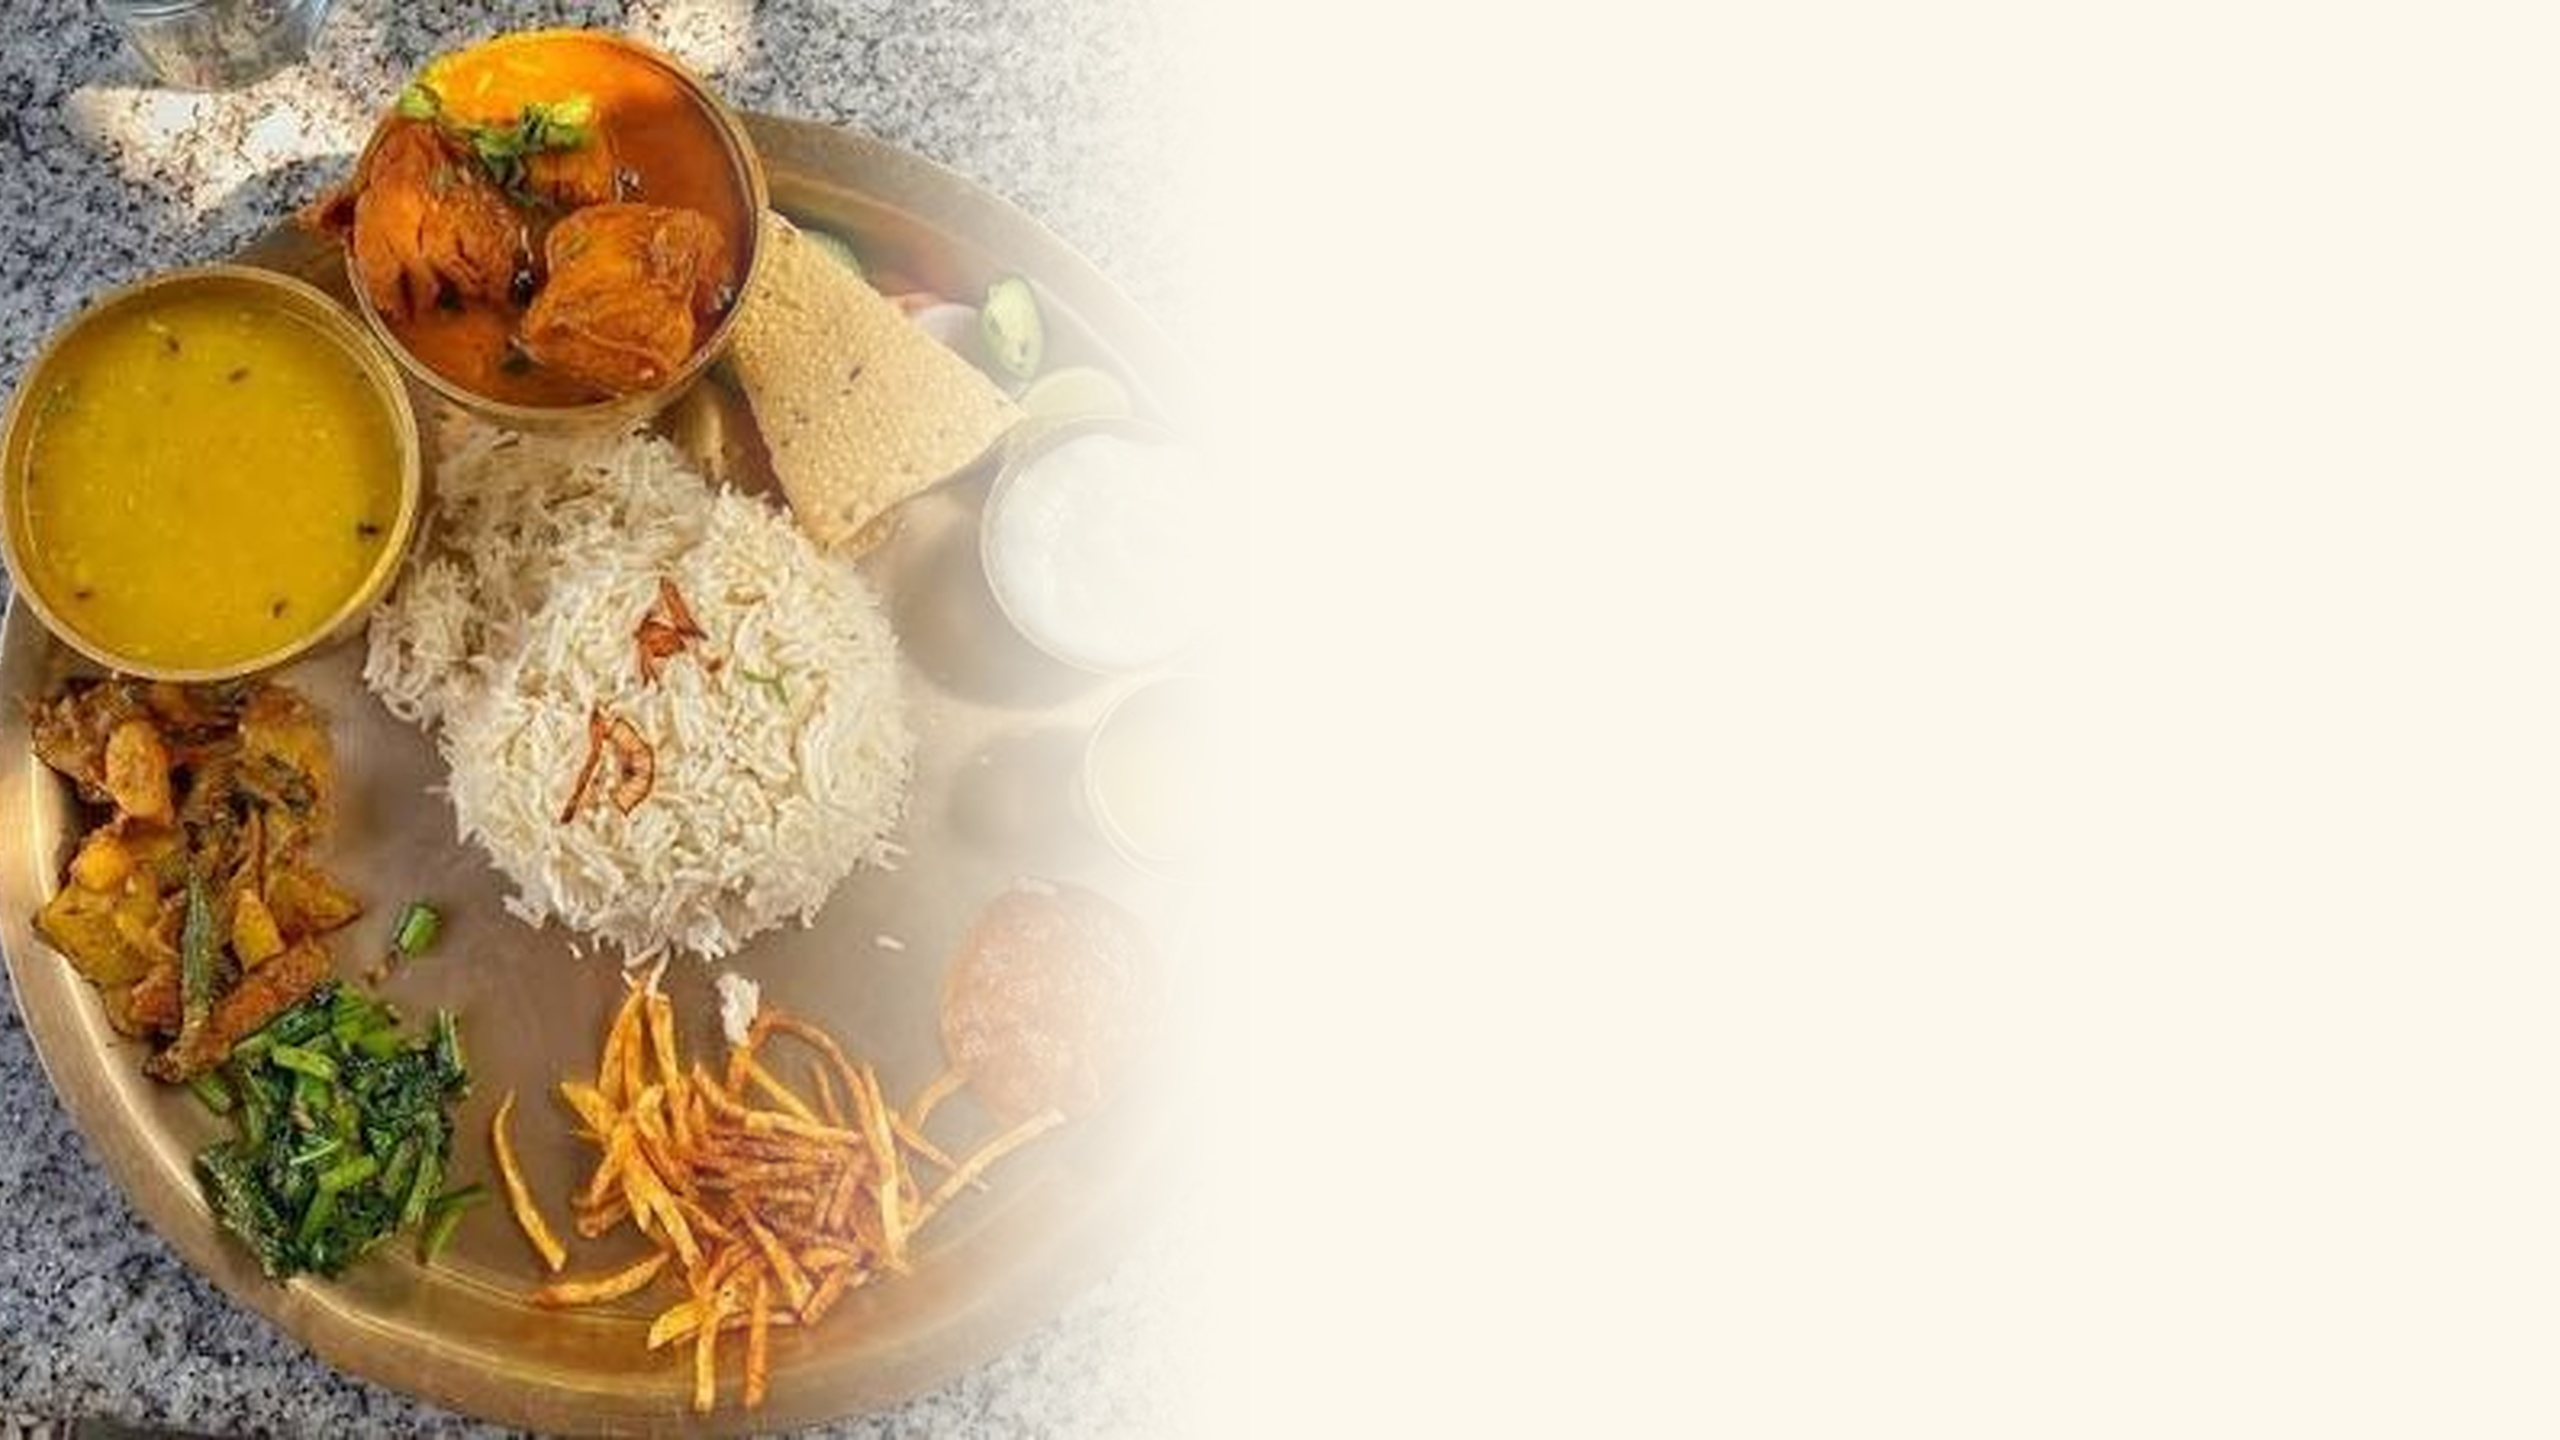
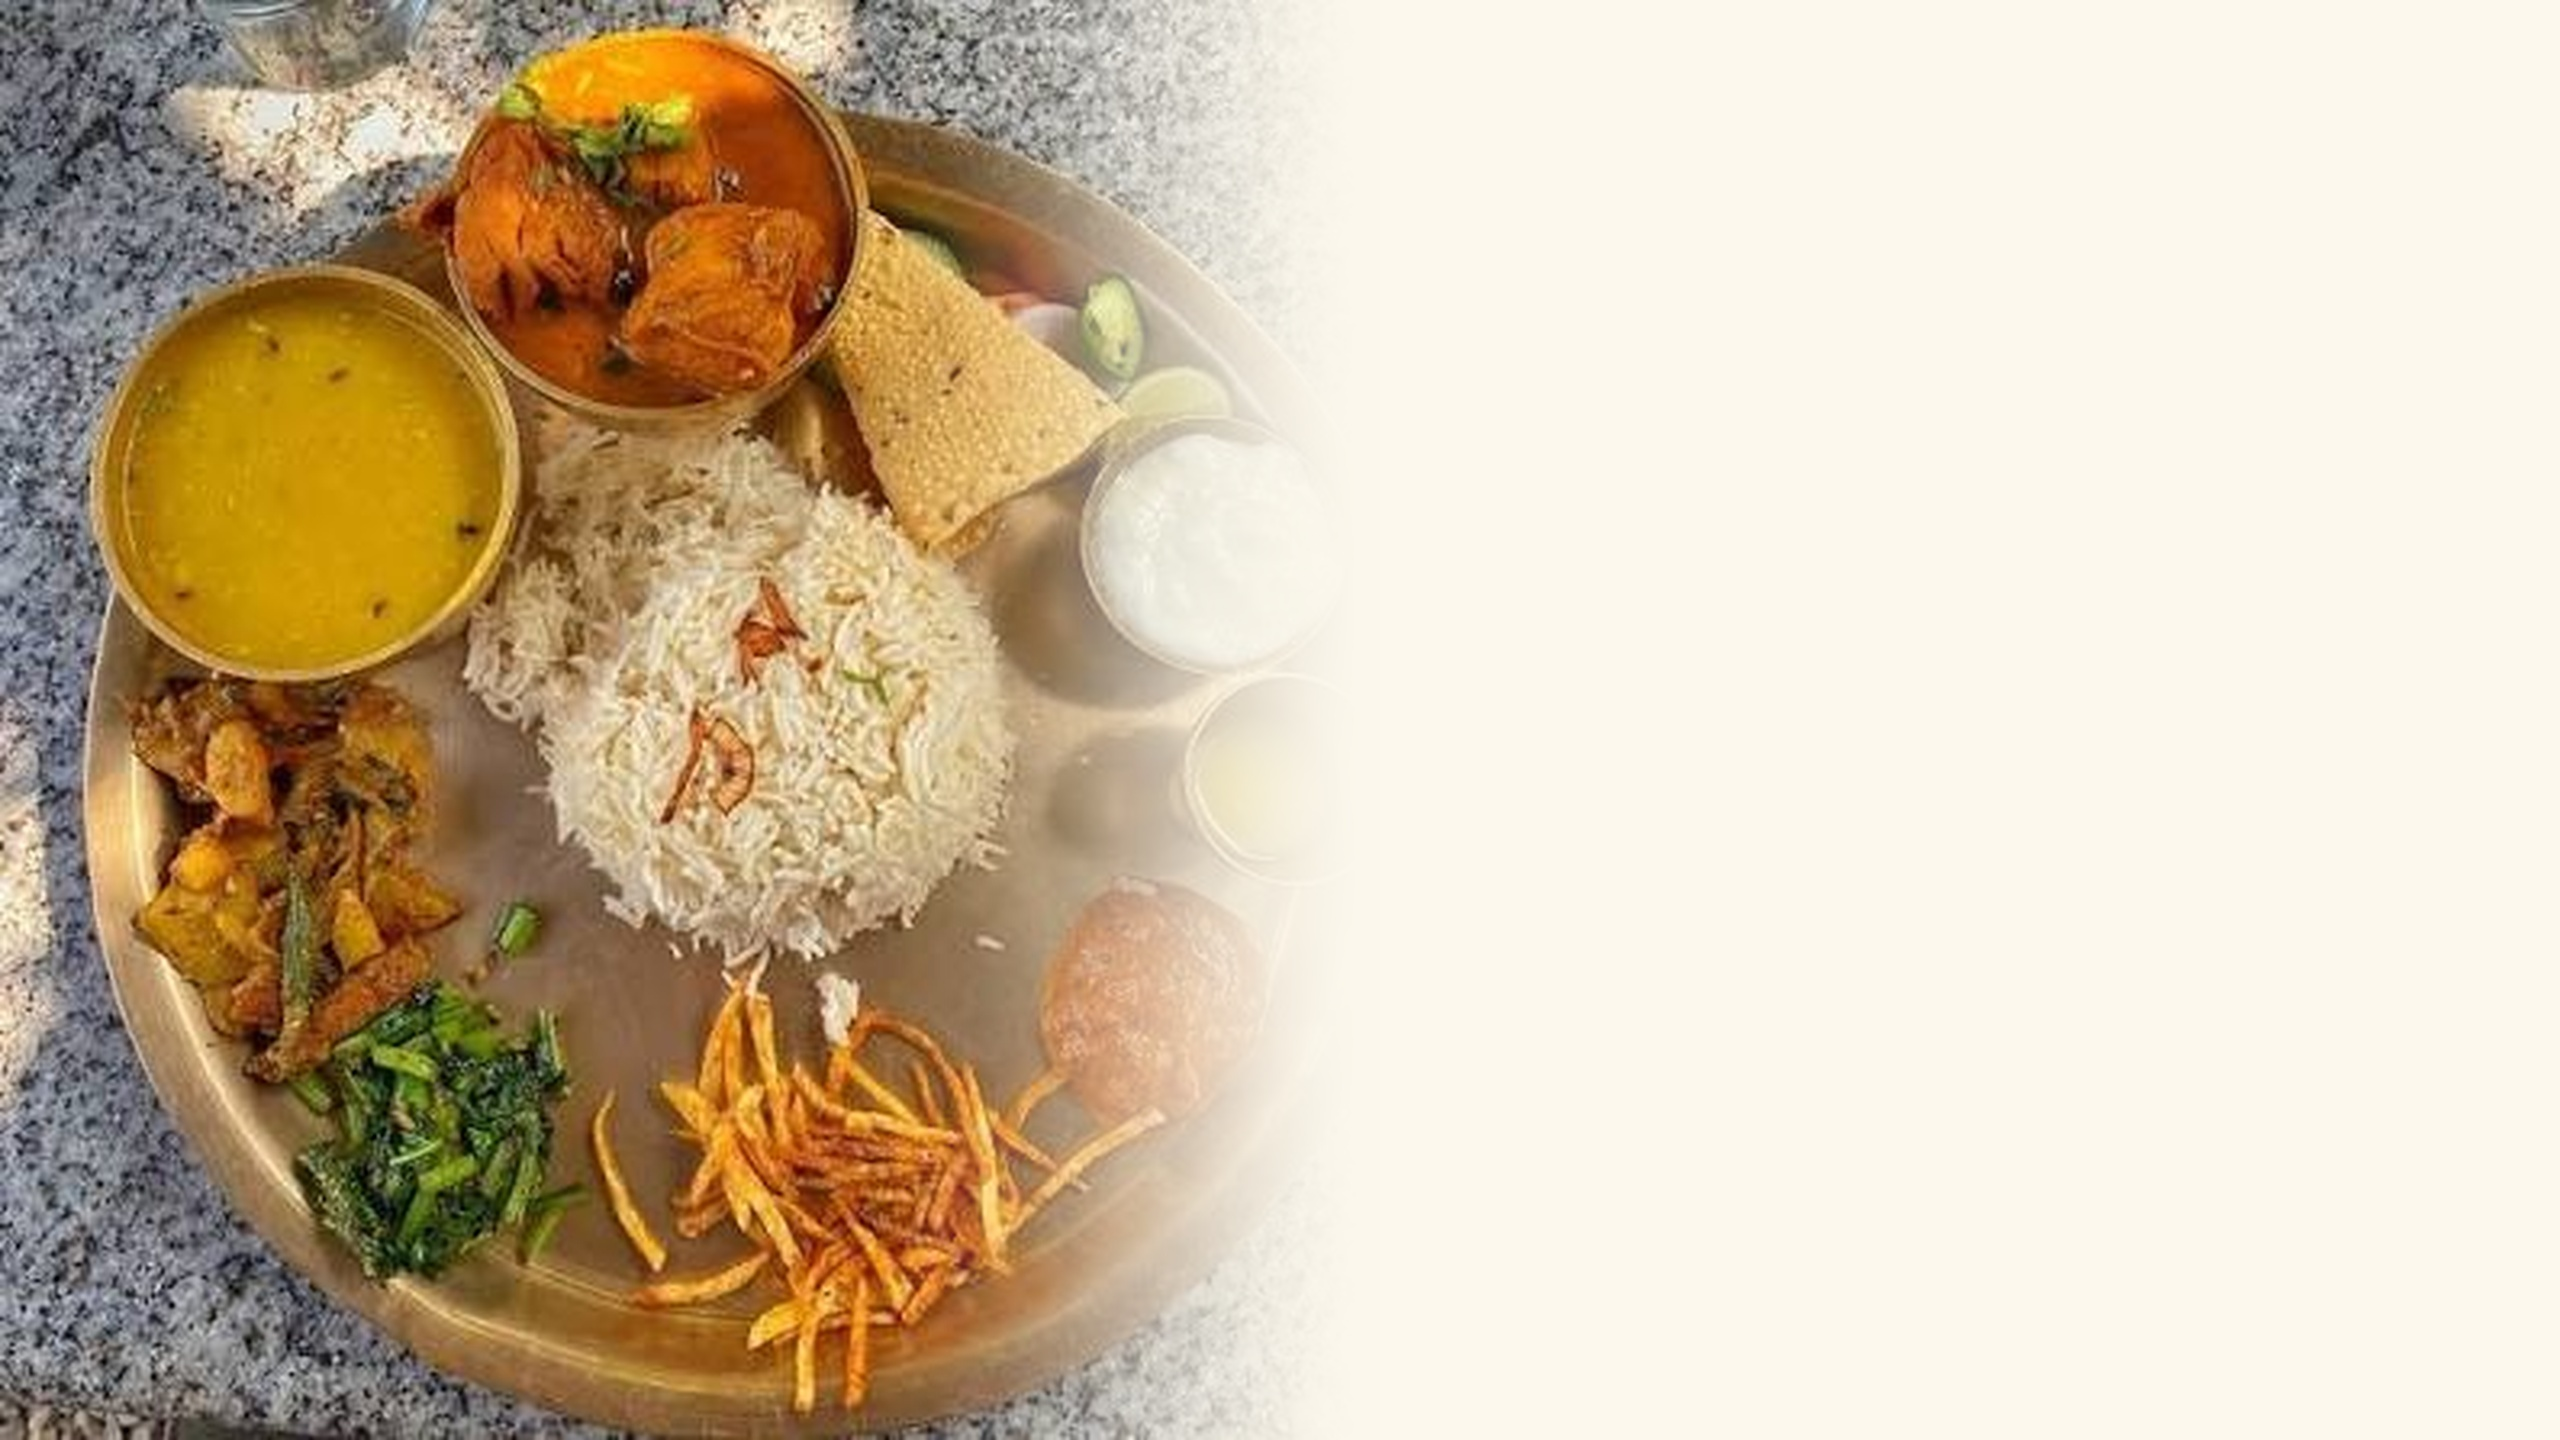
Expand Thakali set visibility across the left section to fill the blank area seamlessly

diff --git a/templates/public/home.html b/templates/public/home.html
@@ -10,23 +10,23 @@
   <div class="absolute inset-0 z-0">
     <img src="/static/images/hero_editorial_banner.jpg" alt="Authentic Nepali Thakali Khana Set Portrait" class="w-full h-full object-cover object-left">
     
-    <!-- Seamless gradient overlay: perfectly clear on left to showcase the brass thali, gentle warmth merging across center, clean champagne on right -->
-    <div class="absolute inset-0 bg-gradient-to-r from-transparent via-creamBg/10 via-35% to-creamBg/90"></div>
+    <!-- Ultra-subtle overlay: 100% transparent on left to let the brass thali stay fully visible and vibrant, subtle warm fade on right -->
+    <div class="absolute inset-0 bg-gradient-to-r from-transparent via-transparent via-40% to-creamBg/80 lg:to-creamBg/85 pointer-events-none"></div>
   </div>
 
   <!-- Hero Content Grid: Balanced Across the Frame to eliminate any void between the dish and typography -->
   <div class="relative z-10 max-w-7xl mx-auto px-4 sm:px-6 lg:px-8 py-16 lg:py-24 w-full">
-    <div class="grid grid-cols-1 lg:grid-cols-12 gap-8 items-center">
+    <div class="grid grid-cols-1 lg:grid-cols-12 gap-6 lg:gap-8 items-center">
       
-      <!-- Left spacer/viewport allowing the authentic brass Thakali set to breathe cleanly -->
-      <div class="hidden lg:block lg:col-span-5 pointer-events-none"></div>
+      <!-- Left spacer/viewport matching the authentic Thakali plate boundary -->
+      <div class="hidden lg:block lg:col-span-5 xl:col-span-5 pointer-events-none"></div>
 
-      <!-- Hero Typography & Actions: Filling the center-to-right area seamlessly -->
-      <div class="w-full lg:col-span-7 space-y-6 text-left">
+      <!-- Hero Typography & Actions: Cleanly positioned where the image smoothly dissolves -->
+      <div class="w-full lg:col-span-7 xl:col-span-7 space-y-6 text-left">
         
         <!-- Top Pill Badge -->
         <div>
-          <div class="inline-flex items-center gap-2.5 px-5 py-2 rounded-full bg-white/90 border border-warmSand/70 text-xs sm:text-sm font-semibold tracking-wide text-terracotta shadow-sm backdrop-blur-md">
+          <div class="inline-flex items-center gap-2.5 px-5 py-2 rounded-full bg-white/95 border border-warmSand/70 text-xs sm:text-sm font-semibold tracking-wide text-terracotta shadow-sm backdrop-blur-md">
             <span class="w-2 h-2 rounded-full bg-terracotta/70"></span>
             <span>🏔 AUTHENTIC MUSTANG THAKALI &amp; HIMALAYAN DINING</span>
           </div>
@@ -38,7 +38,7 @@
             WELCOME TO <br>
             <span class="text-terracotta">HOTEL RHINO</span>
           </h1>
-          <p class="text-base sm:text-lg lg:text-xl text-darkEspresso/80 font-normal leading-relaxed max-w-2xl">
+          <p class="text-base sm:text-lg lg:text-xl text-darkEspresso/85 font-normal leading-relaxed max-w-2xl">
             More than a meal, a taste of Himalayan tradition. Authentic brass thali sets, Mustang Jimbu dal, and heartfelt mountain hospitality in Dhangadhi.
           </p>
         </div>
@@ -49,7 +49,7 @@
             <i data-lucide="compass" class="w-5 h-5"></i>
             <span>Discover Our Story</span>
           </a>
-          <a href="{% url 'khana_sets' %}" class="inline-flex items-center justify-center gap-2.5 px-7 py-3.5 rounded-2xl bg-white/90 hover:bg-white text-deepBrown font-medium text-base border border-terracotta/50 hover:border-terracotta shadow-sm transition-all duration-200 backdrop-blur-sm">
+          <a href="{% url 'khana_sets' %}" class="inline-flex items-center justify-center gap-2.5 px-7 py-3.5 rounded-2xl bg-white/95 hover:bg-white text-deepBrown font-medium text-base border border-terracotta/50 hover:border-terracotta shadow-sm transition-all duration-200 backdrop-blur-sm">
             <i data-lucide="utensils" class="w-5 h-5 text-terracotta"></i>
             <span>View Thakali Thali Menu</span>
           </a>
@@ -59,7 +59,7 @@
         <div class="grid grid-cols-1 sm:grid-cols-2 gap-3.5 pt-3 max-w-2xl">
           
           <!-- Card 1: Mustang Jimbu -->
-          <div class="bg-white/80 border border-warmSand/60 backdrop-blur-md p-4 rounded-2xl text-left flex items-center gap-3.5 shadow-sm hover:shadow-md hover:border-terracotta/50 transition-all duration-200 group">
+          <div class="bg-white/90 border border-warmSand/60 backdrop-blur-md p-4 rounded-2xl text-left flex items-center gap-3.5 shadow-sm hover:shadow-md hover:border-terracotta/50 transition-all duration-200 group">
             <div class="w-11 h-11 rounded-xl bg-terracotta/10 text-terracotta flex items-center justify-center shrink-0 group-hover:scale-105 transition-transform duration-200">
               <i data-lucide="sparkles" class="w-5 h-5"></i>
             </div>
@@ -70,7 +70,7 @@
           </div>
 
           <!-- Card 2: Brass Thali -->
-          <div class="bg-white/80 border border-warmSand/60 backdrop-blur-md p-4 rounded-2xl text-left flex items-center gap-3.5 shadow-sm hover:shadow-md hover:border-terracotta/50 transition-all duration-200 group">
+          <div class="bg-white/90 border border-warmSand/60 backdrop-blur-md p-4 rounded-2xl text-left flex items-center gap-3.5 shadow-sm hover:shadow-md hover:border-terracotta/50 transition-all duration-200 group">
             <div class="w-11 h-11 rounded-xl bg-terracotta/10 text-terracotta flex items-center justify-center shrink-0 group-hover:scale-105 transition-transform duration-200">
               <i data-lucide="utensils-crossed" class="w-5 h-5"></i>
             </div>
@@ -81,7 +81,7 @@
           </div>
 
           <!-- Card 3: Refills -->
-          <div class="bg-white/80 border border-warmSand/60 backdrop-blur-md p-4 rounded-2xl text-left flex items-center gap-3.5 shadow-sm hover:shadow-md hover:border-terracotta/50 transition-all duration-200 group">
+          <div class="bg-white/90 border border-warmSand/60 backdrop-blur-md p-4 rounded-2xl text-left flex items-center gap-3.5 shadow-sm hover:shadow-md hover:border-terracotta/50 transition-all duration-200 group">
             <div class="w-11 h-11 rounded-xl bg-terracotta/10 text-terracotta flex items-center justify-center shrink-0 group-hover:scale-105 transition-transform duration-200">
               <i data-lucide="infinity" class="w-5 h-5"></i>
             </div>
@@ -92,7 +92,7 @@
           </div>
 
           <!-- Card 4: Hospitality -->
-          <div class="bg-white/80 border border-warmSand/60 backdrop-blur-md p-4 rounded-2xl text-left flex items-center gap-3.5 shadow-sm hover:shadow-md hover:border-terracotta/50 transition-all duration-200 group">
+          <div class="bg-white/90 border border-warmSand/60 backdrop-blur-md p-4 rounded-2xl text-left flex items-center gap-3.5 shadow-sm hover:shadow-md hover:border-terracotta/50 transition-all duration-200 group">
             <div class="w-11 h-11 rounded-xl bg-terracotta/10 text-terracotta flex items-center justify-center shrink-0 group-hover:scale-105 transition-transform duration-200">
               <i data-lucide="heart" class="w-5 h-5"></i>
             </div>
